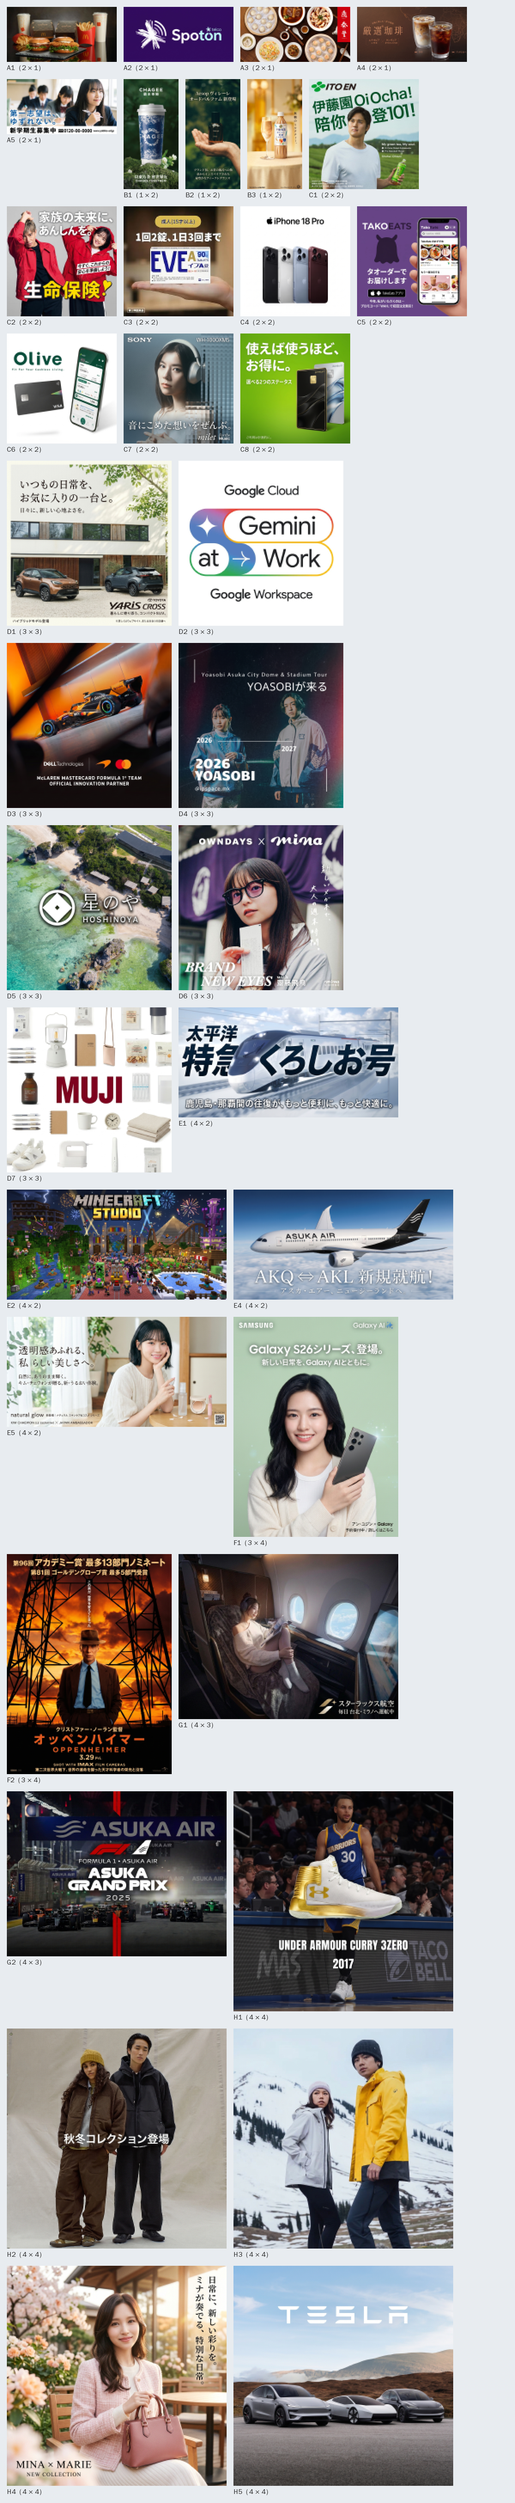
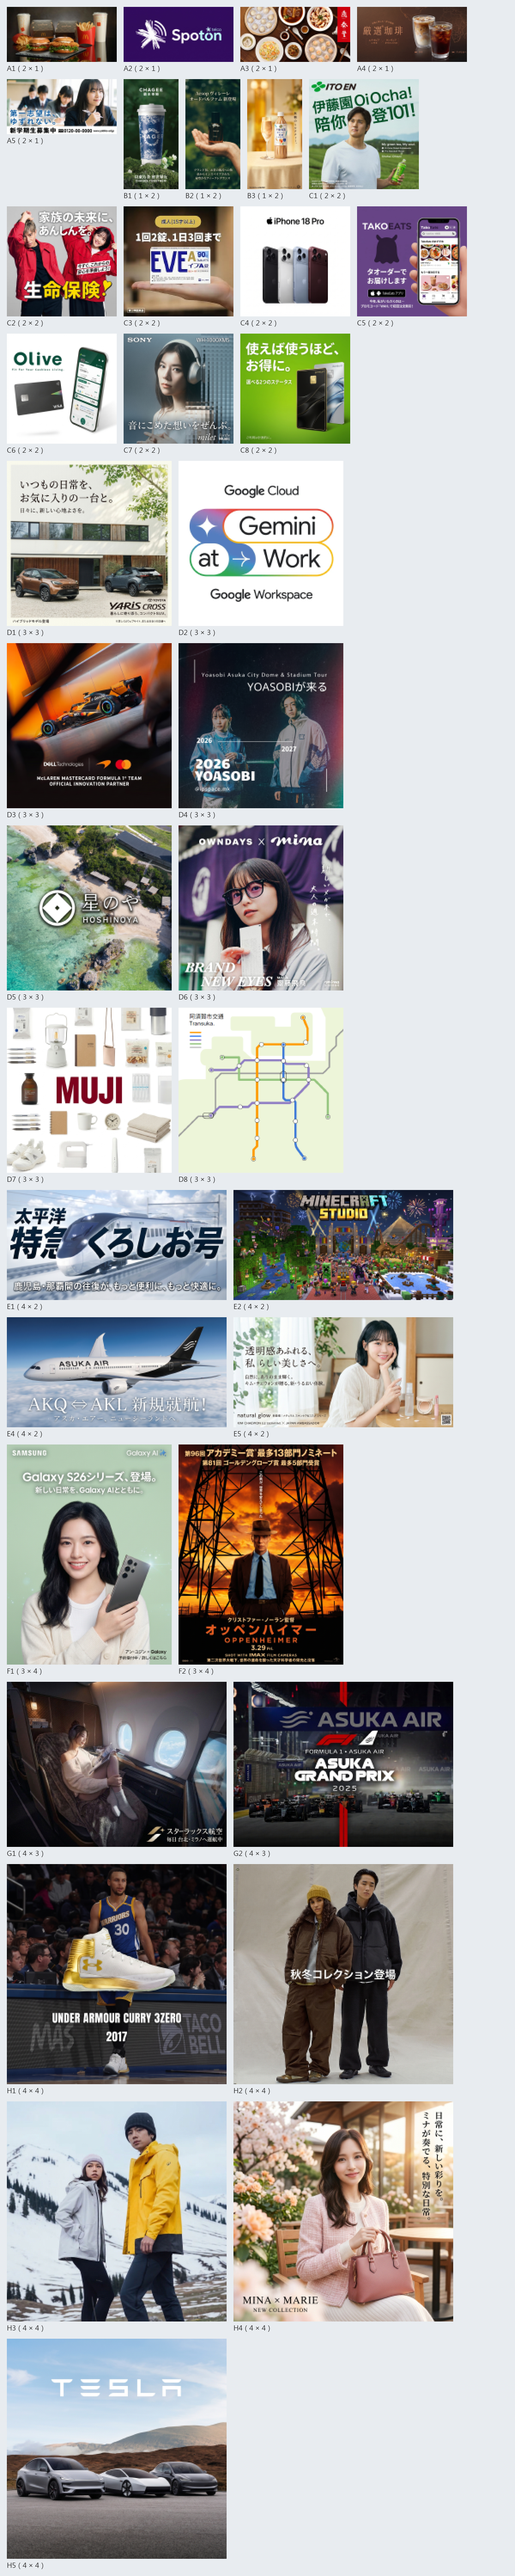
廣告 D8：換上作者畫的地鐵路線圖（v0.7.6）
原版的 tides 換成作者畫的路線圖，解析度和其他廣告一樣是 64x（作者比較過
128x 後決定維持）。廣告從 36 幅變成 37 幅，3 × 3 的 8 幅全部是廣告。

- 打包後和 v0.7.5 逐檔比對：只多了 tides.png，其餘只有版本號不同
- build.py 的預覽圖字型原本只有 Linux 的路徑，加上 Windows 的微軟正黑體
- 路線圖的標題「阿須賀市交通 Transuka.」記進交通文件；圖上第五條灰線是
  哪條路線，放進待決定事項

diff --git a/addon/drafts/ads/build.py b/addon/drafts/ads/build.py
@@ -47,7 +47,7 @@ from PIL import Image, ImageDraw, ImageFont
 HERE = Path(__file__).resolve().parent
 ROOT = HERE.parents[2]
 IMAGES = HERE / "images"
-FONT = "/usr/share/fonts/truetype/wqy/wqy-zenhei.ttc"
+FONT = next(f for f in ("/usr/share/fonts/truetype/wqy/wqy-zenhei.ttc", "C:/Windows/Fonts/msjh.ttc") if Path(f).exists())
 
 # ---------- painting slots (docs/ads.md) ----------
 # code: (w, h, file, (x, y) in the 16x kz.png or None for a file of its own)

diff --git a/docs/ads.md b/docs/ads.md
@@ -16,7 +16,7 @@
 - **主題（已定，2026-11-02）**：作者整理過的各尺寸主題。「萬用」是不指定品牌的廣告；「以○○為模板」是畫面風格參考那個品牌，品牌名一樣模糊帶過；備註寫「待決定」的是作者還在猶豫的
 - **萬用廣告**（已定，2026-11-01）：品牌模糊帶過，只寫品類（例如「医療保険」「頭痛薬」），配一個看不出字的抽象標誌。衣服廣告也維持萬用，不換成真實的品牌
 - **沒有填的編號**：維持原版的畫，放畫時可能會挑到原版的圖
-- **進度**（2026-11-02）：36 幅換上作者的圖（64x）；D8 地鐵路線圖、E3 Asuka Inc. 的地產開發等作者準備圖片，先維持原版
+- **進度**（2026-11-05）：37 幅換上作者的圖（64x）；E3 Asuka Inc. 的地產開發等作者準備圖片，先維持原版
 - **圖片由作者準備**（2026-11-02）：Claude 畫的品質不夠，作者決定自己準備每一幅的圖片，Claude 只負責換上去。Claude 畫過的 A1、A3、A4 草稿不用，畫圖的程式從 repo 移除（留在 git 紀錄裡）
 
 ---
@@ -54,7 +54,7 @@
 
 ## 材質
 
-- **解析度 64x**（已定，2026-11-02）：每格 64 像素，用 `pixelate.py --res 64` 產生。作者比較過 64x 與 128x 後選 64x。`kz.png` 是 1024 × 1024，36 幅的材質合計約 1.8 MB。原本定的 32x（2026-11-01）不用了
+- **解析度 64x**（已定，2026-11-02）：每格 64 像素，用 `pixelate.py --res 64` 產生。作者比較過 64x 與 128x 後選 64x。`kz.png` 是 1024 × 1024，37 幅的材質合計約 1.8 MB。原本定的 32x（2026-11-01）不用了。D8 地鐵路線圖也用 64x：標題的中文會糊，線路和車站看得清楚；作者比較過 128x 後決定維持 64x（2026-11-05）
 - **`kz.png` 的大小跟著解析度變**：16 × 16 格，每格 64 像素就是 1024 × 1024。筆電的螢幕與上蓋一起放大，看起來不變。`kz.png` 裡的廣告最好用同一種解析度，或彼此是整數倍（例如 16、32、64），放大後的像素才會平均
 - **合併方式**：廣告與筆電做成疊加圖 `addon/drafts/ads/kz_overlay.png`；完整的 `kz.png` 由 `build.py --vanilla` 把原版放大再疊上去，輸出到不進 repo 的 `addon/build/`，所以 repo 裡沒有原版的圖
 - **Asuka Air 的廣告**：照 [Asuka Air 標誌](world/asuka-air-logo.md)的規則，黑白兩色（作者 2026-11-01 確認黑白）
@@ -112,7 +112,7 @@
 | D5 | fern | `fern.png` | 南方的渡假飯店（馬爾地夫那種，或星野リゾート那種） | |
 | D6 | owlemons | `owlemons.png` | 眼鏡，齋藤飛鳥代言 | |
 | D7 | sunflowers | `sunflowers.png` | MUJI（家用小物） | |
-| D8 | tides | `tides.png` | 地鐵路線圖 | 作者還沒準備圖片，先維持原版 |
+| D8 | tides | `tides.png` | 地鐵路線圖 | 作者畫的（2026-11-05），標題是「阿須賀市交通 Transuka.」 |
 
 ## 4 × 2（3 × 1.5 公尺）
 
@@ -186,4 +186,4 @@
 
 ## 待決定事項
 
-- **D8、E3 的圖片**：作者準備好後放進 `originals/`，加進 `originals.json`
+- **E3 的圖片**：作者準備好後放進 `originals/`，加進 `originals.json`

diff --git a/docs/world/transport.md b/docs/world/transport.md
@@ -73,6 +73,7 @@
 - 量體檢查：4 條在 `scale.md` 的上限（約 3～4 條）以內；哥本哈根同樣是 4 條，其中一條是環狀線
 - 綠線的先例：沖繩的單軌電車（ゆいレール）從那霸機場出發，架在市區幹道上方
 - 紫線的先例：台北捷運環狀線第一階段也是半圈的弧形
+- 路線圖（作者畫，2026-11-05）：標題是「阿須賀市交通 Transuka.」，當作廣告 D8 放在畫上，原圖是 `addon/drafts/ads/originals/Transuka Map.png`
 
 ---
 
@@ -168,6 +169,7 @@
 - [ ] **縱貫鐵路的軌距**：建議沿用日本時代的 1067 公釐窄軌（台灣、日本的傳統鐵路都是），和標準軌的黒潮特快分開
 - [ ] **跨海到南方離島的鐵路**：黒潮特快不經過南方離島，所以這段跨海鐵路是為縱貫鐵路自己蓋的。人口少的觀光島嶼蓋跨海鐵路有先例：德國敘爾特島靠一條約 11 公里的鐵路堤連接本土，島上常住人口不到 2 萬，以觀光為主。但南島有鐵路的話，國內線的旅客會被搶走，要和國內線航廈一起考慮
 - [ ] **綠線大街的路名**
+- [ ] **路線圖上的灰線**：作者畫的路線圖（廣告 D8）除了橘、藍、紫、綠，還有第五條灰線，和地鐵有兩處轉乘；首都地鐵只有 4 條，灰線是哪條路線待作者確認
 - [ ] **國內線航廈**：作者偏向蓋，前提是國內航班要多到撐得起來。Claude 的建議：
   - 南島：從每天 4 個來回增加到 7～8 個，旺季再加班。先例：那霸到久米島約 100 公里、航程 35 分鐘，島上人口約 7000 人，一天有 7 個來回（2018 年度，RAC 6 班、JTA 1 班）；那霸到宮古一天約 10 班。前提是南島沒有鐵路，有的話旅客會改搭火車，見上面的「跨海到南方離島的鐵路」
   - 小島航線：地理設定裡的「數個小島」還沒有內容，可以挑 2～3 個設短跑道的小機場，用 19 人座的 DHC-6 雙水獺飛，每個島每天 4～6 個來回。先例：德安航空用 DHC-6 從台東飛蘭嶼，平常每天 6～8 班，夏季旺季更多；蘭嶼人口約 5000 人。各小島的人口與觀光特色待補

diff --git a/docs/addon-contents.md b/docs/addon-contents.md
@@ -4,7 +4,7 @@
 
 > **維護規則（作者要求，2026-11-04）**：之後每新增、修改或拿掉一樣東西，都要同時更新這份清單（類別、加入的版本、草稿位置），和 `docs/addon.md` 的版本紀錄一起 commit。
 
-目前版本：**v0.7.5**（2026-11-04）。「加入」欄是第一次放進附加內容的版本，後面括號是之後改過外觀的版本。
+目前版本：**v0.7.6**（2026-11-05）。「加入」欄是第一次放進附加內容的版本，後面括號是之後改過外觀的版本。
 
 ## 一、直接改材質
 
@@ -12,7 +12,7 @@
 
 | 原版 | 改成 | 加入 | 草稿 |
 | --- | --- | --- | --- |
-| 畫 | 36 幅廣告；一格大小的 2 幅改成筆電螢幕（桌面、寫程式）；所有畫的背面改成灰色筆電上蓋 | v0.1.0 | `addon/drafts/ads/`、`addon/drafts/laptop/` |
+| 畫 | 37 幅廣告；一格大小的 2 幅改成筆電螢幕（桌面、寫程式）；所有畫的背面改成灰色筆電上蓋 | v0.1.0（v0.7.6 加上地鐵路線圖） | `addon/drafts/ads/`、`addon/drafts/laptop/` |
 | 物品框架 | 白色展示框，兼當萬用盤子（只換中間的底，木框不變） | v0.1.0 | `addon/drafts/white_frame/` |
 | 發光物品框架 | 萬用小螢幕（只換中間，木框不變） | v0.1.0 | `addon/drafts/screen/` |
 | 白色界伏蚌盒 | 鐵製置物櫃 | v0.1.0 | `addon/drafts/locker/` |
